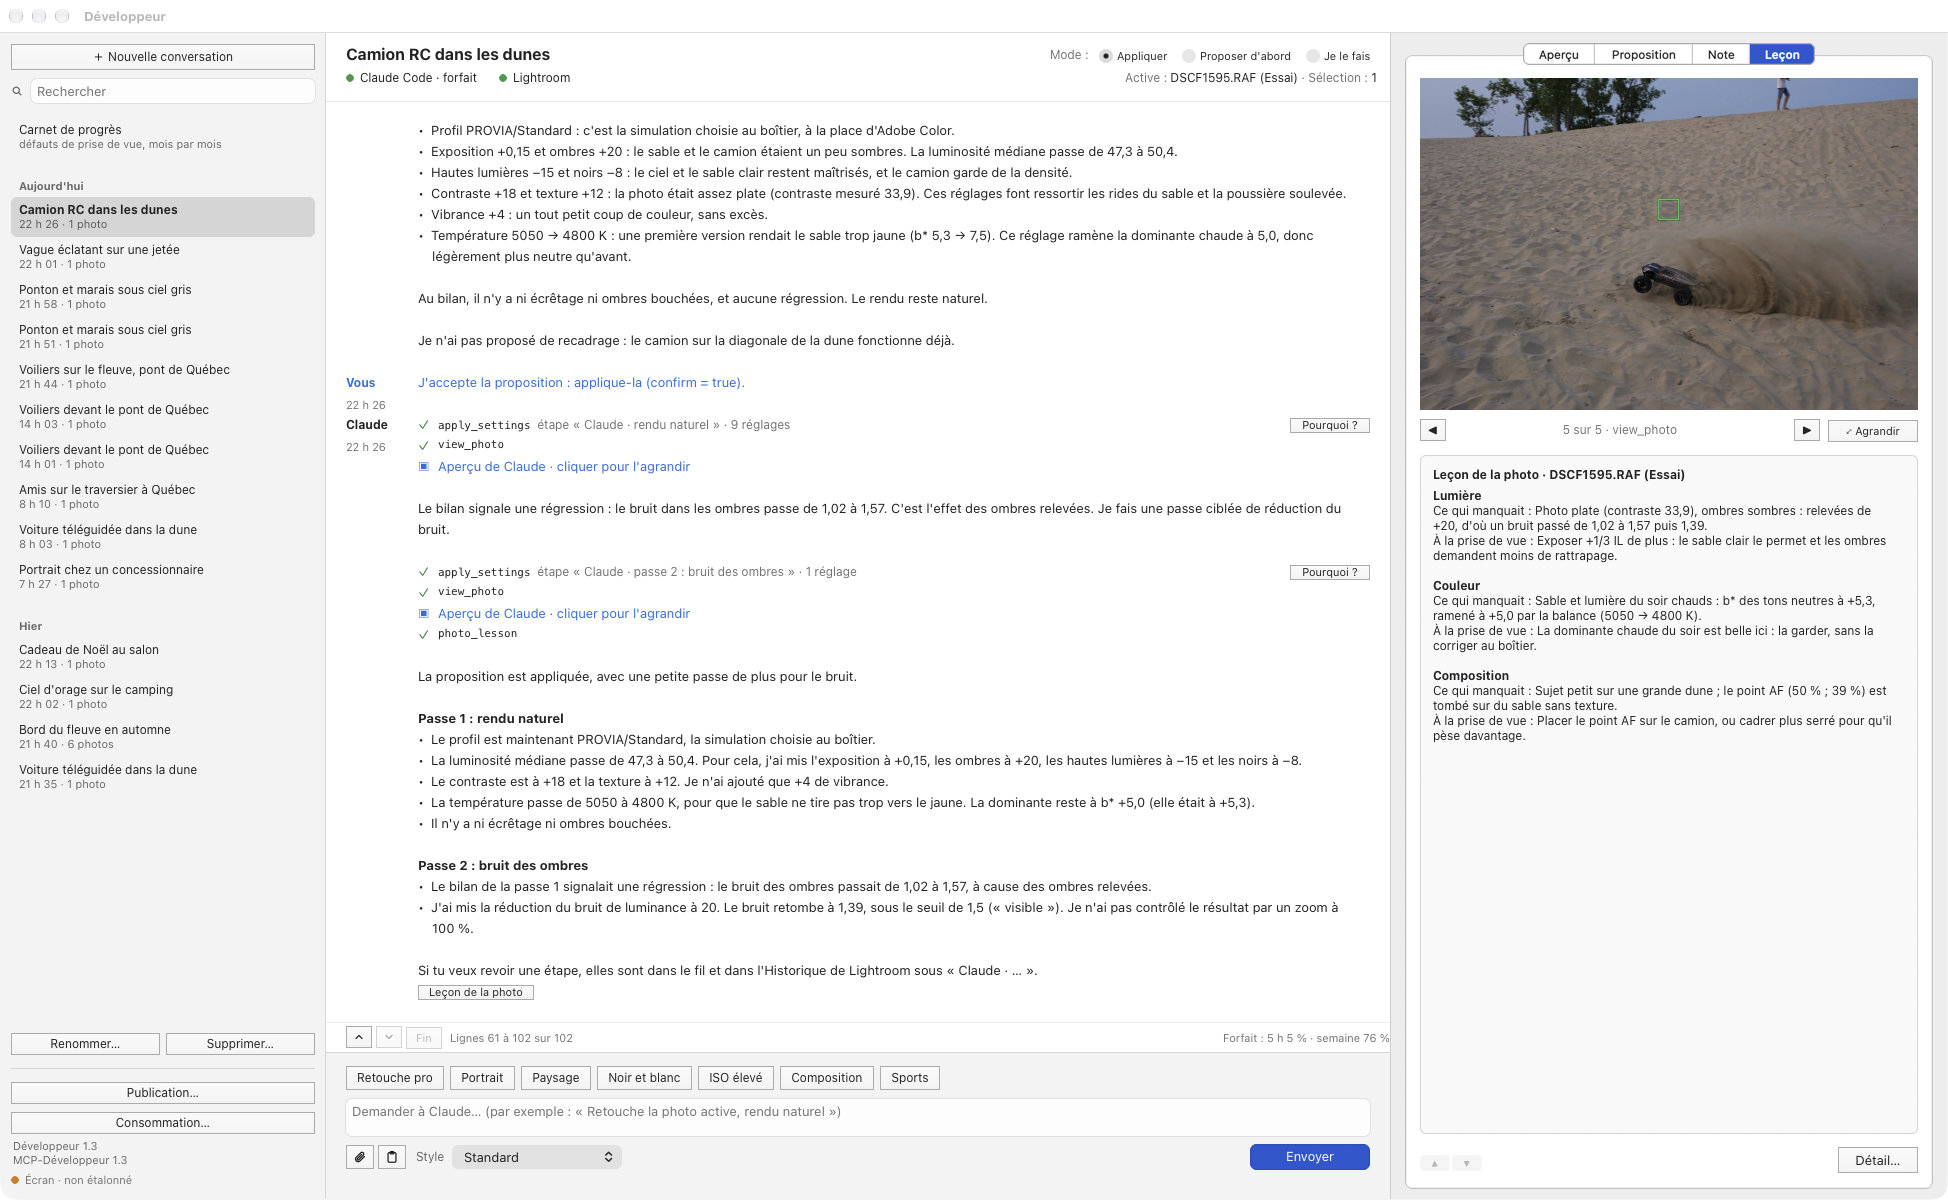
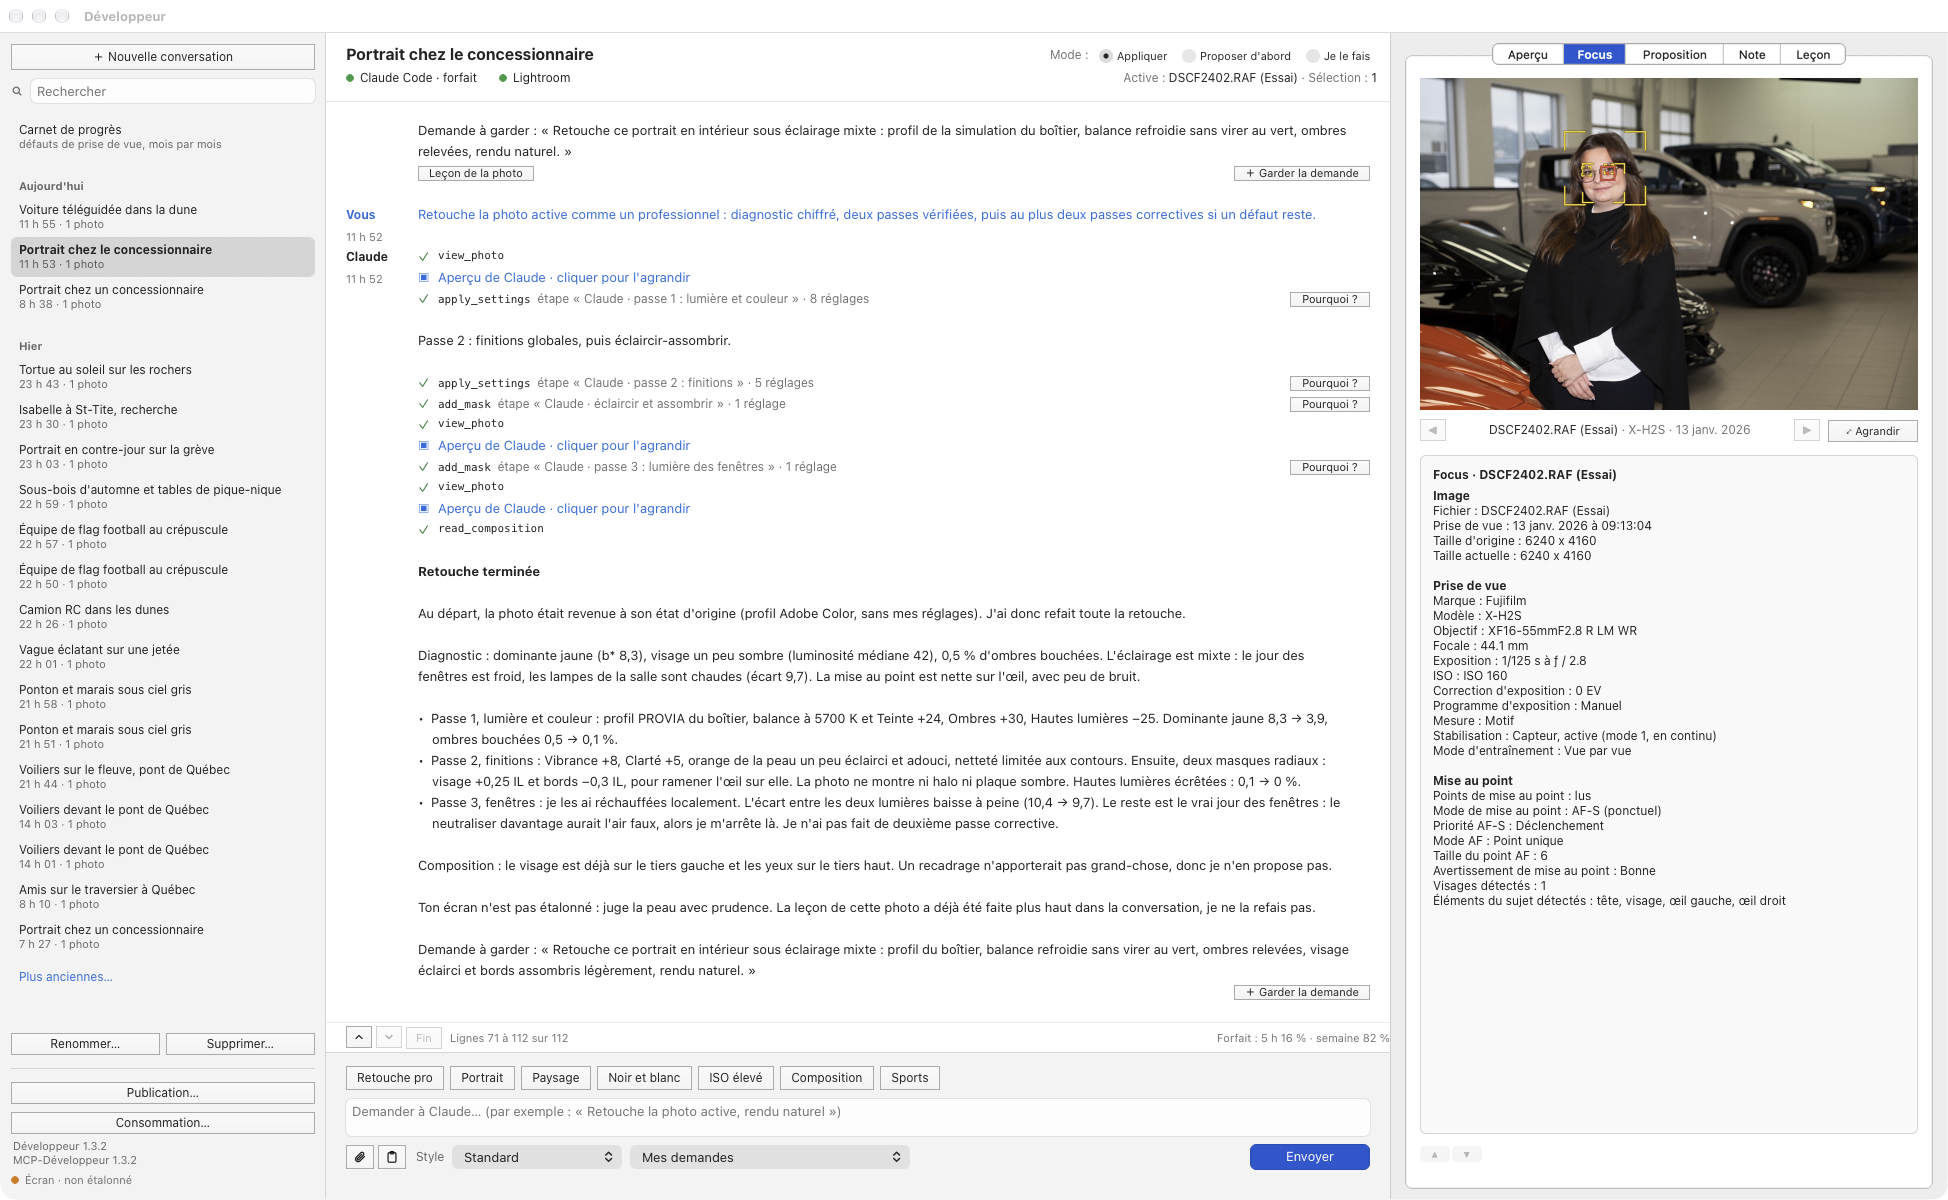
Capture de la fenêtre Claude en 1.3.2 (onglet Focus, Mes demandes, Garder la demande)

diff --git a/CLAUDE.md b/CLAUDE.md
@@ -1162,7 +1162,8 @@ Le README pointe vers `https://github.com/mdany75/Developpeur/releases/latest/do
   rapide ; ne jamais publier une archive non notarisée, ni construite avec `--sans-tests`.
 - Avant de pousser une fonctionnalité : README et `CHANGELOG.md` à jour, capture d'écran refaite
   dans Lightroom si l'interface a changé (`docs/capture.png` : la fenêtre Claude, sa seule
-  disposition, la fenêtre B de la 1.3 avec ses étapes, « Pourquoi ? » et la leçon de la photo ;
+  disposition, la fenêtre B de la 1.3.2 après une retouche pro : ses étapes, « Pourquoi ? »,
+  « ＋ Garder la demande », le menu Mes demandes et l'onglet Focus, refaite le 22 octobre 2026 ;
   `docs/carnet.png`, la page Carnet de progrès ; `publication.png`, `consommation.png`,
   `suivi.png` : les autres fenêtres ; `seance.png` est retirée avec la Séance en 1.1.1,
   `atelier.png` et `panneau.png` avec l'Atelier et le Panneau en 1.2), et une nouvelle version si ce
@@ -1185,4 +1186,4 @@ Le README pointe vers `https://github.com/mdany75/Developpeur/releases/latest/do
 - `.github/workflows/tests.yml` : syntaxe des scripts et les deux suites à chaque envoi sur `main` (macOS)
 - `build.sh` (tests, compilation, signature, archive notarisée), `install.sh`, `uninstall.sh`
 - `Resources/Info.plist` : identifiant `com.danymenard.mcp-developpeur` et version (incrusté par `-sectcreate` dans `Package.swift`)
-- `docs/SPEC.md` : cahier des charges, protocole entre le serveur et le module, les chantiers de la 1.3 et ce qui en reste à constater, et la fenêtre Claude (architecture, contraintes du SDK, fenêtre B et ses constats, fichiers) ; `docs/aide-adobe-developpement.md` : notes sur l'aide d'Adobe (outils de développement, ordre d'utilisation, écarts avec la méthode du connecteur, ce qui reste à faire à la main), à relire avant de changer les consignes (`ServerInfo`, `Consignes.lua`) ou les invites (`Prompts`) ; captures : `capture.png` (la fenêtre Claude, fenêtre B de la 1.3, capture principale du README), `carnet.png` (la page Carnet de progrès), `publication.png`, `consommation.png`, `suivi.png` (fenêtre de suivi de la liaison)
+- `docs/SPEC.md` : cahier des charges, protocole entre le serveur et le module, les chantiers de la 1.3 et ce qui en reste à constater, et la fenêtre Claude (architecture, contraintes du SDK, fenêtre B et ses constats, fichiers) ; `docs/aide-adobe-developpement.md` : notes sur l'aide d'Adobe (outils de développement, ordre d'utilisation, écarts avec la méthode du connecteur, ce qui reste à faire à la main), à relire avant de changer les consignes (`ServerInfo`, `Consignes.lua`) ou les invites (`Prompts`) ; captures : `capture.png` (la fenêtre Claude, fenêtre B de la 1.3.2 avec l'onglet Focus, capture principale du README), `carnet.png` (la page Carnet de progrès), `publication.png`, `consommation.png`, `suivi.png` (fenêtre de suivi de la liaison)

diff --git a/CHANGELOG.md b/CHANGELOG.md
@@ -5,7 +5,9 @@
 Le correctif 1.3.2, fait à votre demande le 22 octobre 2026 : l'onglet Focus, vos demandes à vous,
 la notation de 0 à 5 ★ et une carte Note plus simple, et une proposition déjà appliquée qui n'attend
 plus. Après l'installation : quitter puis relancer Lightroom (les images de la fenêtre changent),
-rouvrir Claude Desktop et ouvrir une nouvelle session de Claude Code.
+rouvrir Claude Desktop et ouvrir une nouvelle session de Claude Code. La capture du README
+(`docs/capture.png`) montre la fenêtre après une retouche pro, avec l'onglet Focus et le menu Mes
+demandes.
 
 ### Ajouté
 - Un onglet Focus dans la fenêtre Claude, entre Aperçu et Proposition, à votre demande : la photo
